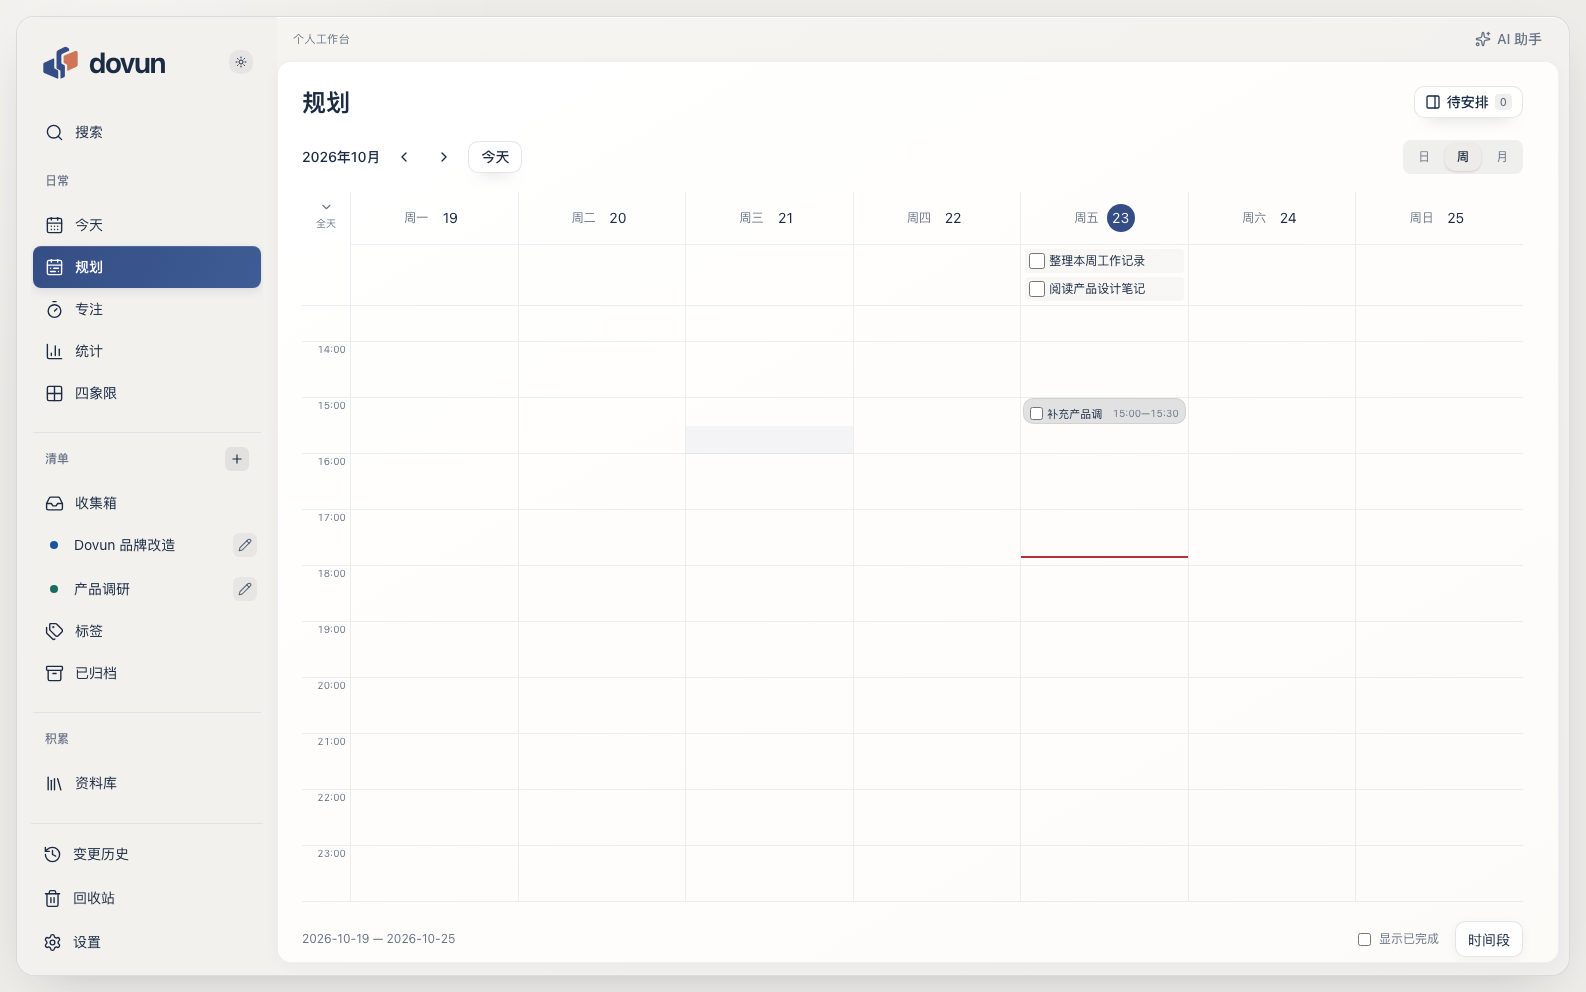
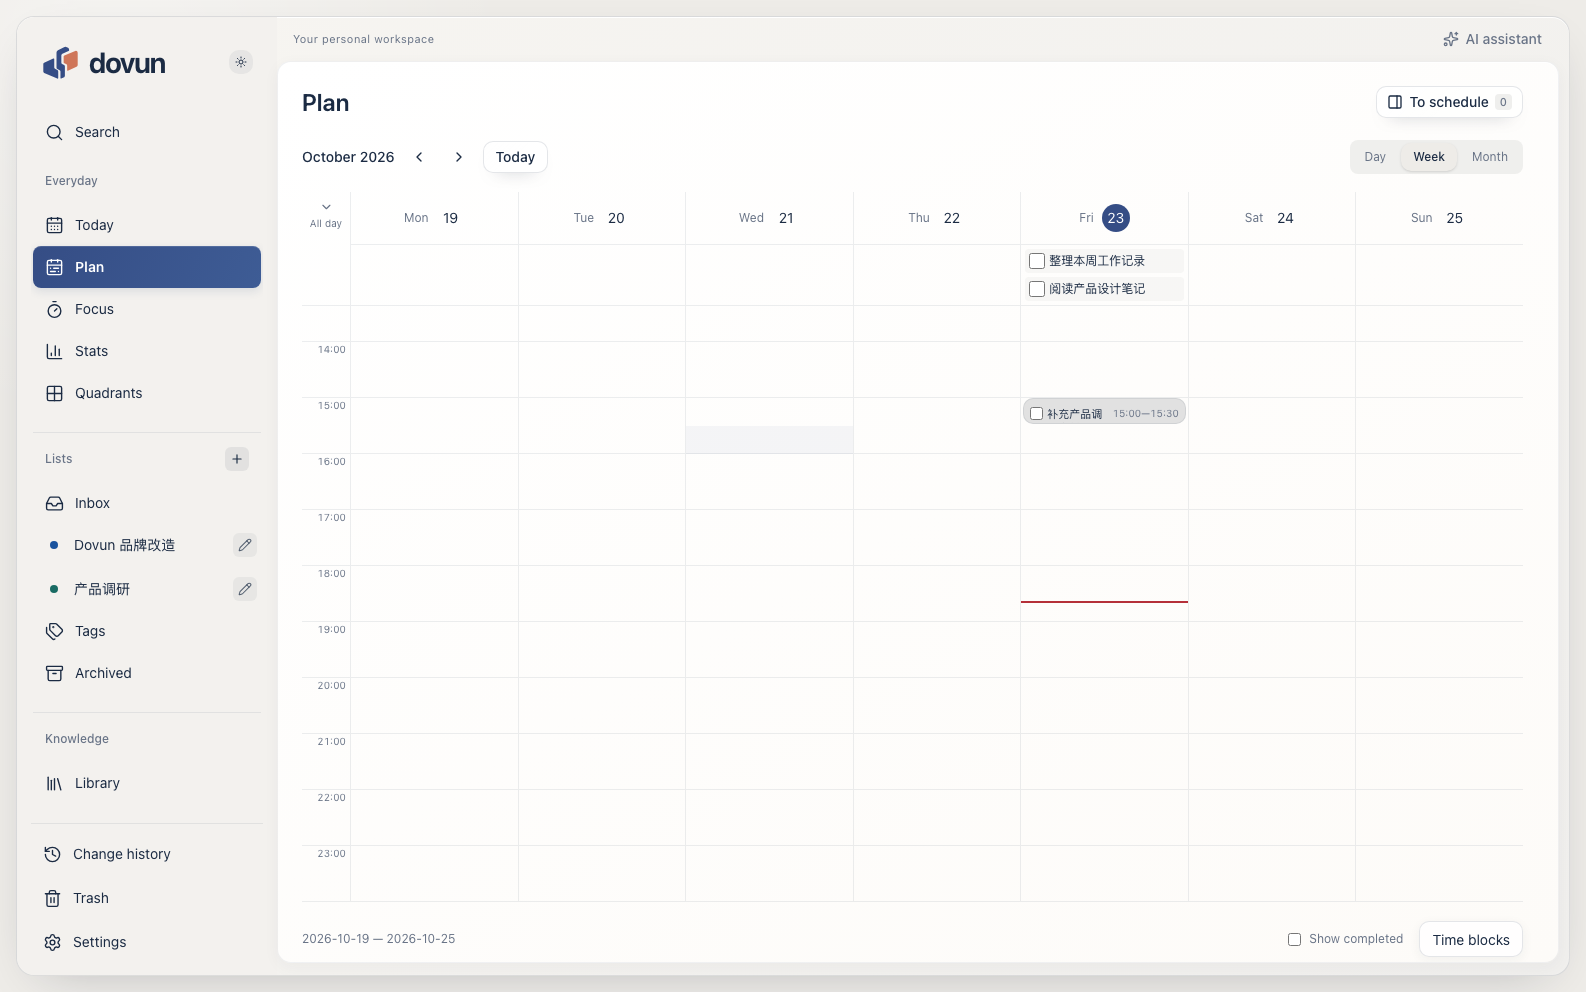
docs: record Dovun candidates and verified migration evidence

diff --git a/docs/design/dovun/implementation/delivery.md b/docs/design/dovun/implementation/delivery.md
@@ -1,0 +1,46 @@
+# Dovun A/B 改造交付记录
+
+2026-10-23。源码与 macOS Apple Silicon 候选包已完成；没有覆盖安装、服务器部署、仓库改名或域名切换。
+
+## 视觉与产品
+
+A 瓷白浅色、B 石墨深色共用真实应用布局，分层底板/工作区/任务与详情/输入浮层；已推广至今天、规划、资料、工作上下文、设置和其余原有页面。Dovun 归栈宽缝图形用于侧栏、启动页、favicon 和桌面图标。导航共用有序配置，高级工具默认折叠，已有偏好保留。
+
+右栏复用同一任务编辑器与聊天实例。切页、资料/上下文页签、助手展开收起保留草稿；未配置模型时提供真实配置入口，不生成虚构建议。今天新增仍按真实日期和收集箱规则执行。
+
+[真实截图对照](index.html)覆盖中英文、浅深色、1586×992、1440、1280、1024 和 390px；无整页横向溢出或 pageerror。截图来自隔离 API 与实际组件，英文截图另核对 `html.lang=en`。图库的主题、参考图及英文切换已验证。
+
+## 分阶段结果
+
+| 阶段 | 源码与候选 | 状态 |
+| --- | --- | --- |
+| 0.3.0 | `codex/dovun-0.3`；旧系统标识、旧运行配置回退、启动器转发、浏览器草稿迁移 | 保留完整过渡版本，App/DMG 构建与打包运行时冒烟通过 |
+| 0.4.0 | `codex/dovun-0.4`；`app.dovun.desktop`、只接受新运行配置、首次窗口前恢复原生状态 | App/DMG 构建与打包运行时冒烟通过；Windows 原生验收未执行 |
+
+新旧目录冲突、源进程未停、校验失败、过期自定义配置均阻止启动空工作台。旧目录和备份保留，历史快照、正文资料链接及业务 ID/接口稳定。0.3.0 的兼容代码没有与 0.4.0 清理合成一个版本。
+
+## 验证结果
+
+| 检查 | 结果 |
+| --- | --- |
+| 0.4.0 完整单元测试 | 服务端 **828/828**，客户端 **367/367**，同一次 `npm test` 通过 |
+| Rust 原生逻辑 | **22/22** |
+| 语言与类型 | 13 个中英文 namespace、256 个源码文件、847 条服务端消息检查通过；客户端/服务端类型检查及完整构建通过 |
+| 0.4.0 Chromium 完整 E2E | 379 项：348 通过、27 按条件跳过、4 初次失败；更新旧事件夹具后 4 项复测全部通过。未把这个结果表述成单次全绿 |
+| 0.4.0 手机与 WebKit 核心链路 | 54 项：50 通过、4 跳过 |
+| 0.3.0 额外验证 | 服务端 825、客户端 367、Rust 22 通过；完整 Chromium 失败项逐项复测通过；跨浏览器核心链路 93 通过、4 跳过 |
+| WebKit 引擎状态迁移 | 0.2、0.3 两种来源各使用临时 persistent profile；复制后 cookie、主题、聊天恢复状态、带 origin/用户/服务范围的 IndexedDB 草稿、pending 清除均通过 |
+| 目录迁移 | 备份、完整复制、WAL 异常退出、重复执行、中断重试、源变更、并发启动、目录冲突、路径别名及来源命名覆盖；最终聚焦 22 项通过 |
+| 数据核对演练 | 5 个任务、2 个清单及全部表行数一致；来源、备份、目标数据库 SHA256 一致；重复执行返回 already-migrated |
+| 打包运行时冒烟 | 两版均通过：任务创建与重启持久化、MCP 拒绝未授权、同一代理断线与重启恢复、服务器模式访问密钥；0.4.0 额外核对默认 dovun.db |
+| 包核对 | 两版 Info.plist 版本/身份正确，包内主 JS/CSS 与各自构建逐字节一致；DMG 摘要见 candidates.json |
+
+证据：[迁移前后摘要与行数](migration-evidence.json)、[候选包版本/资源与 SHA256](candidates.json)、[0.3.0 旧名称保留原因](legacy-names.md)、[0.4.0 身份迁移说明](../../../dovun-04-handoff.md)。
+
+## 发布边界与剩余限制
+
+本轮没有用真实用户数据库或 profile 做迁移试验，没有启动或替换已安装的应用，没有改服务器文件或数据。macOS 证据包括打包身份、原生编译/逻辑测试、独立审查和真实 WebKit 隔离 profile 恢复；没有把这些表述成已安装应用的升级验收。Windows 仅做路径与迁移逻辑测试，缺少 Windows WebView2 原生升级与安装运行证据。
+
+大 chunk 提示和既有 Rust unused-function 提示不阻止构建；macOS 仍为 ad-hoc 签名且没有公证。新名称/图形的法律注册或商标授权不由本次实现验收确认。
+
+后续真实安装与部署按 [迁移手册](../../../dovun-migration.md)及仓库 AGENTS.md 执行，分别记录数据摘要、版本和公网资源。已有 MCP 和同宿主连接只更新原条目，不新增第二条。

diff --git a/docs/design/dovun/implementation/README.md b/docs/design/dovun/implementation/README.md
@@ -25,10 +25,10 @@ A 的瓷白浅色与 B 的石墨深色共用一套布局，已进入真实 React
 
 1586×992、1440、1280、1024、390px 的上述截图检查未发现整页横向溢出或页面异常。真实 E2E 继续验收业务行为，截图不代替测试通过。
 
-## 验证进度
+## 验证与交付
 
-新增回归覆盖首个任务、未发送聊天草稿、共享右栏按钮可达、详情页签切换保留同一编辑器。独立只读复核通过桌面与手机的三项草稿/布局修复。
+真实截图涵盖中英文、浅深色、1586×992 与 1440/1280/1024/390px；未发现整页横向溢出或 pageerror。今天、规划、资料、工作上下文和设置均来自实际组件及接口。可直接打开 [截图对照页](index.html)。
 
-全量 Chromium 首轮运行 377 项：311 通过、27 按原条件跳过、39 失败；失败项包括旧测试端口、旧品牌/导航/色值断言，以及资料浮层和安排弹层的实际布局问题。实际问题已修复，复测逐项推进；最终结果另行补充，不能把首轮视为全部通过。
+0.3.0 过渡版在 `codex/dovun-0.3` 保留完整兼容；0.4.0 使用新应用身份，移除运行兼容并保留历史数据/内容导入。App/DMG 均已构建，打包运行时冒烟通过；两个版本的默认文件名与身份分别核对，主 JS/CSS 与对应构建逐字节一致。
 
-0.3.0 技术迁移已接入启动并在隔离数据中验证；迁移规则见 [手册](../../../dovun-migration.md)，旧名称保留原因见 [清单](legacy-names.md)。0.4.0 尚未完成，没有安装或部署。
+测试数量、迁移摘要、候选包校验和剩余平台限制见 [交付记录](delivery.md)、[目录迁移证据](migration-evidence.json)和[候选包校验](candidates.json)。未安装、部署、改仓库或切域名。Windows WebView2 仍需原生升级验收；不能把 WebKit 隔离测试当作 Windows 验收。

diff --git a/docs/design/dovun/implementation/legacy-names.md b/docs/design/dovun/implementation/legacy-names.md
@@ -14,3 +14,5 @@
 | 历史资料与测试 | 原设计、调研、兼容夹具、脱敏测试凭据 | 保留来源与测试意义 |
 
 排查使用 `rg -n 'WWA_|work_with_agent|work-with-agent|agent-studio|wwa-' client/src server/src desktop scripts .github README* docs/deployment.md`，逐项按上表判断，不做全仓机械替换。密钥与用户正文不纳入扫描输出。
+
+0.4.0 分支已移除上表的运行配置回退、旧事件桥、旧语言/会话入口和目标目录的旧启动别名。旧配置仅作为启动阻断诊断，旧目录/偏好/草稿仅作为导入来源；正文协议、快照解析、外部仓库与现有部署身份继续保留。`window.wwa` / `wwa:*` sandbox 协议属于已有交互资料内容的兼容接口。

diff --git a/docs/dovun-04-handoff.md b/docs/dovun-04-handoff.md
@@ -1,6 +1,6 @@
 # Dovun 0.4.0 完成版候选与身份迁移
 
-本分支独立于 0.3.0 过渡版。0.3.0 的完整兼容代码保留在 `codex/dovun-workspace`；本分支为 `codex/dovun-0.4`。没有安装、部署、改仓库或切域名。
+本分支独立于 0.3.0 过渡版。0.3.0 的完整兼容代码保留在 `codex/dovun-0.3`；本分支为 `codex/dovun-0.4`。没有安装、部署、改仓库或切域名。
 
 ## 当前实现
 
